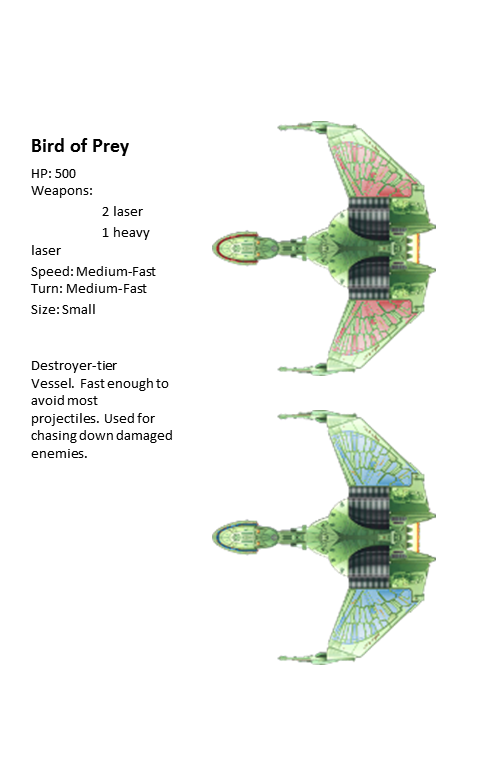
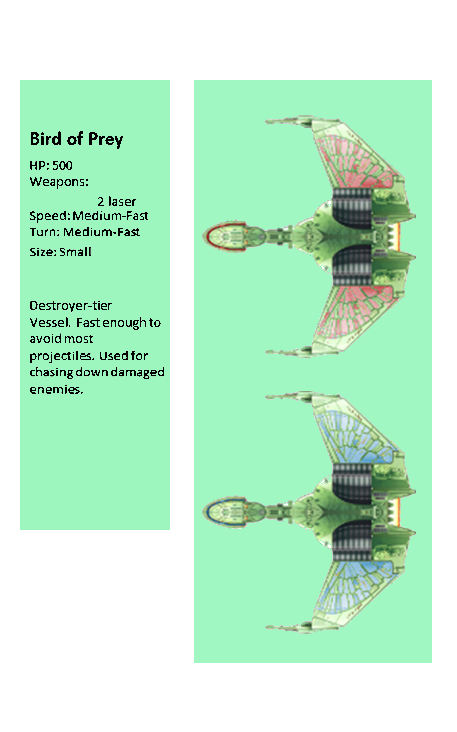
Menus finally updated

diff --git a/ShipSelectMenu.java b/ShipSelectMenu.java
@@ -13,7 +13,7 @@ public class ShipSelectMenu
     static int teamTwo = 0;
     public static void main(String[] args)
     {
-        JFrame frame = new JFrame();
+        final JFrame frame = new JFrame();
         frame.setDefaultCloseOperation(JFrame.EXIT_ON_CLOSE);
         final JPanel panel = new JPanel(new GridLayout(1,2));
         JPanel p1ReadyPanel = new JPanel(new GridLayout(1,2));
@@ -28,23 +28,27 @@ public class ShipSelectMenu
         final JLabel p1ReadyText = new JLabel("P1 Ready?");
         final JLabel p2ReadyText = new JLabel("P2 Ready?");
 
+        
         class ReadyListener implements ActionListener 
         {
             public void actionPerformed(ActionEvent e)
             {
-                if(e.getSource() == p1ReadyButton)
+                if(teamOne>0 && teamTwo > 0)
                 {
-                    p1ReadyText.setText("READY");
-                    p1.remove(p1ReadyButton);
-                    p1.repaint();
-                    p1.revalidate();
-                }
-                else if(e.getSource() == p2ReadyButton)
-                {
-                    p2ReadyText.setText("READY");
-                    p2.remove(p2ReadyButton);
-                    p2.repaint();
-                    p2.revalidate();
+                    if(e.getSource() == p1ReadyButton)
+                    {
+                        p1ReadyText.setText("READY");
+                        p1.remove(p1ReadyButton);
+                        p1.repaint();
+                        p1.revalidate();
+                    }
+                    else if(e.getSource() == p2ReadyButton)
+                    {
+                        p2ReadyText.setText("READY");
+                        p2.remove(p2ReadyButton);
+                        p2.repaint();
+                        p2.revalidate();
+                    }
                 }
 
                 panel.repaint();
@@ -59,9 +63,9 @@ public class ShipSelectMenu
         p2ReadyPanel.add(p2ReadyText);
         p2ReadyPanel.add(p2ReadyButton);
 
-        p1.add(getPanel(1), BorderLayout.CENTER);
+        p1.add(getPanel(1, frame), BorderLayout.CENTER);
         p1.add(p1ReadyPanel, BorderLayout.SOUTH);
-        p2.add(getPanel(2), BorderLayout.CENTER);
+        p2.add(getPanel(2, frame), BorderLayout.CENTER);
         p2.add(p2ReadyPanel, BorderLayout.SOUTH);
 
         p1.setBackground(new Color(0,0,0,0));
@@ -71,12 +75,21 @@ public class ShipSelectMenu
         panel.add(p2);       
         frame.setBackground(new Color(0, 255, 0, 0));
         frame.getContentPane().setBackground(Color.BLACK);
-        frame.add(new BackgroundComponent());
+        BackgroundComponent b = new BackgroundComponent();
+        frame.add(b);
         frame.revalidate();
         frame.add(panel);
-
+        class BackgroundUpdateListener implements ActionListener
+        {
+            public void actionPerformed(ActionEvent e)
+            {
+                frame.repaint();
+            }
+        }
+        Timer t = new Timer(10, new BackgroundUpdateListener()); 
+        t.start();
         frame.setVisible(true);
-        frame.add(new BackgroundComponent());
+        frame.add(b);
         frame.revalidate();
 
         String stateFileName = "StartStates";
@@ -105,7 +118,7 @@ public class ShipSelectMenu
         }
     }
 
-    public static JPanel getPanel(int player)
+    public static JPanel getPanel(int player, final JFrame window)
     {
         final int team = player;
         final JPanel frame = new JPanel();
@@ -142,11 +155,13 @@ public class ShipSelectMenu
                 shipPic.changePic("shipIntros/" + l.getTitle() + "Intro.png");
                 //                 shipPanel.revalidate();
                 //                 shipName.revalidate();
-                totPanel.revalidate();
-                labels.revalidate();
-                totPanel.repaint();
-                frame.revalidate();
-                frame.repaint();
+                //                 totPanel.revalidate();
+                //                 labels.revalidate();
+                //                 totPanel.repaint();
+                //                 frame.revalidate();
+                //                 frame.repaint();
+                window.revalidate();
+                window.repaint();
             }
 
             public void mouseEntered(MouseEvent e) {}
@@ -187,6 +202,8 @@ public class ShipSelectMenu
                 labels.remove(num+1);
                 labels.revalidate();
                 labels.repaint();
+                window.revalidate();
+                window.repaint();
             }
         }
 

diff --git a/BackgroundComponent.java b/BackgroundComponent.java
@@ -1,0 +1,23 @@
+import javax.swing.*;
+import java.awt.geom.*;
+import java.awt.*;
+
+public class BackgroundComponent extends JComponent
+{
+
+    ImageIcon bgico;
+    Image bgimg;
+    public BackgroundComponent()
+    {
+
+        bgico = new ImageIcon("menuBG.gif");
+        bgimg = bgico.getImage();
+    }
+
+    public void paintComponent(Graphics g)
+    {
+        Graphics2D g2 = (Graphics2D) g;
+
+        g2.drawImage(bgimg, 0, 0, (int) Toolkit.getDefaultToolkit().getScreenSize().getWidth(), (int) Toolkit.getDefaultToolkit().getScreenSize().getHeight(), null, null);
+    }
+}

diff --git a/GameEngine.java b/GameEngine.java
@@ -282,6 +282,11 @@ public class GameEngine
 
             public void keyTyped(KeyEvent e){
                 //                 if(e.getKeyChar()=='b')
+                if(e.getKeyChar()==KeyEvent.VK_ESCAPE)
+                {
+                    System.exit(0);
+                    
+                }
                 if(e.getKeyChar()==KeyEvent.VK_SPACE)
                 {
 
